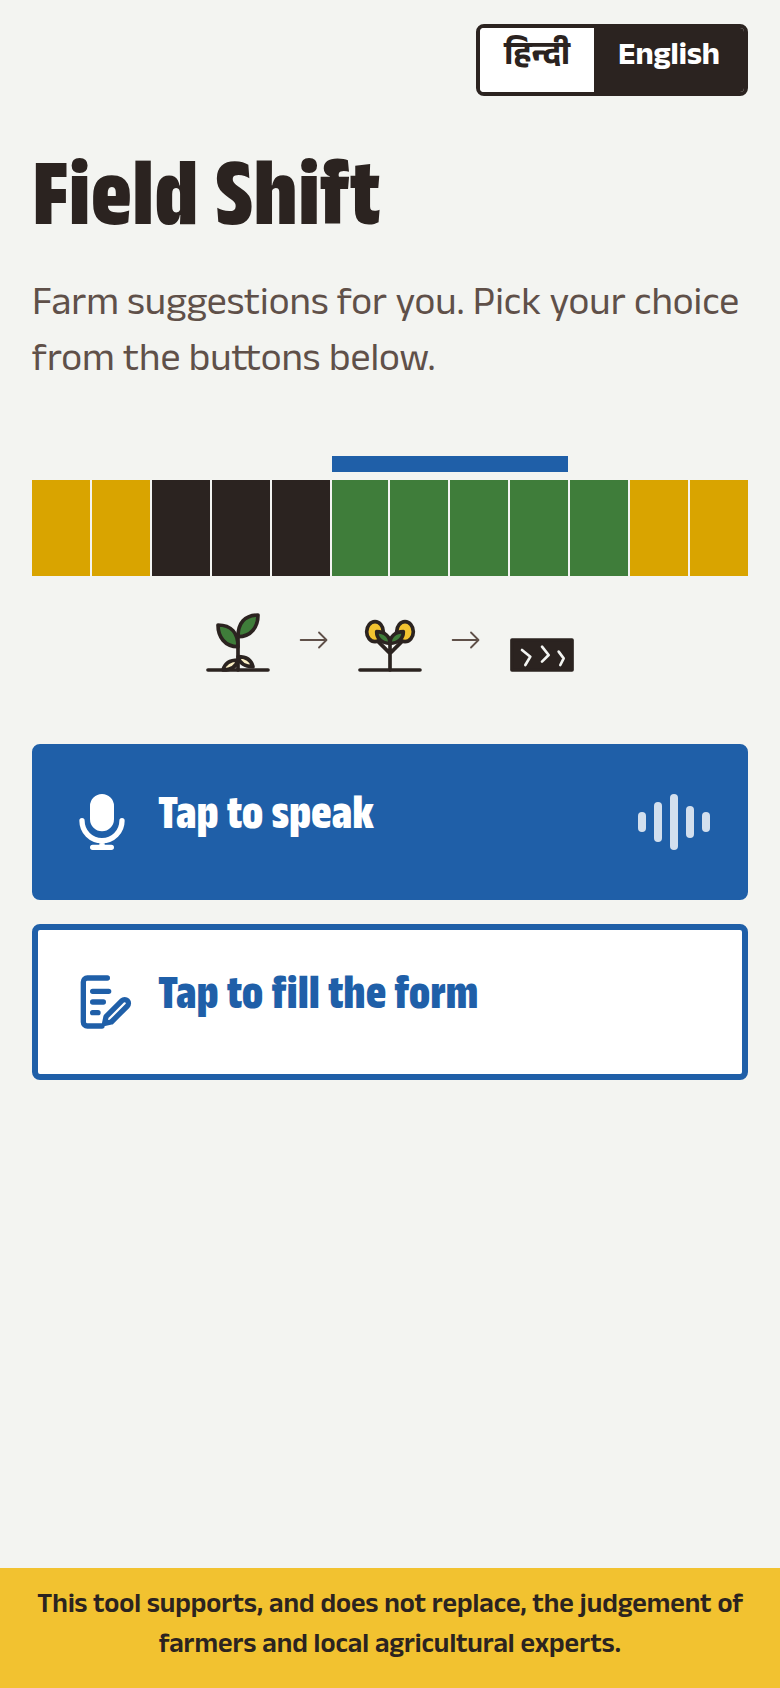
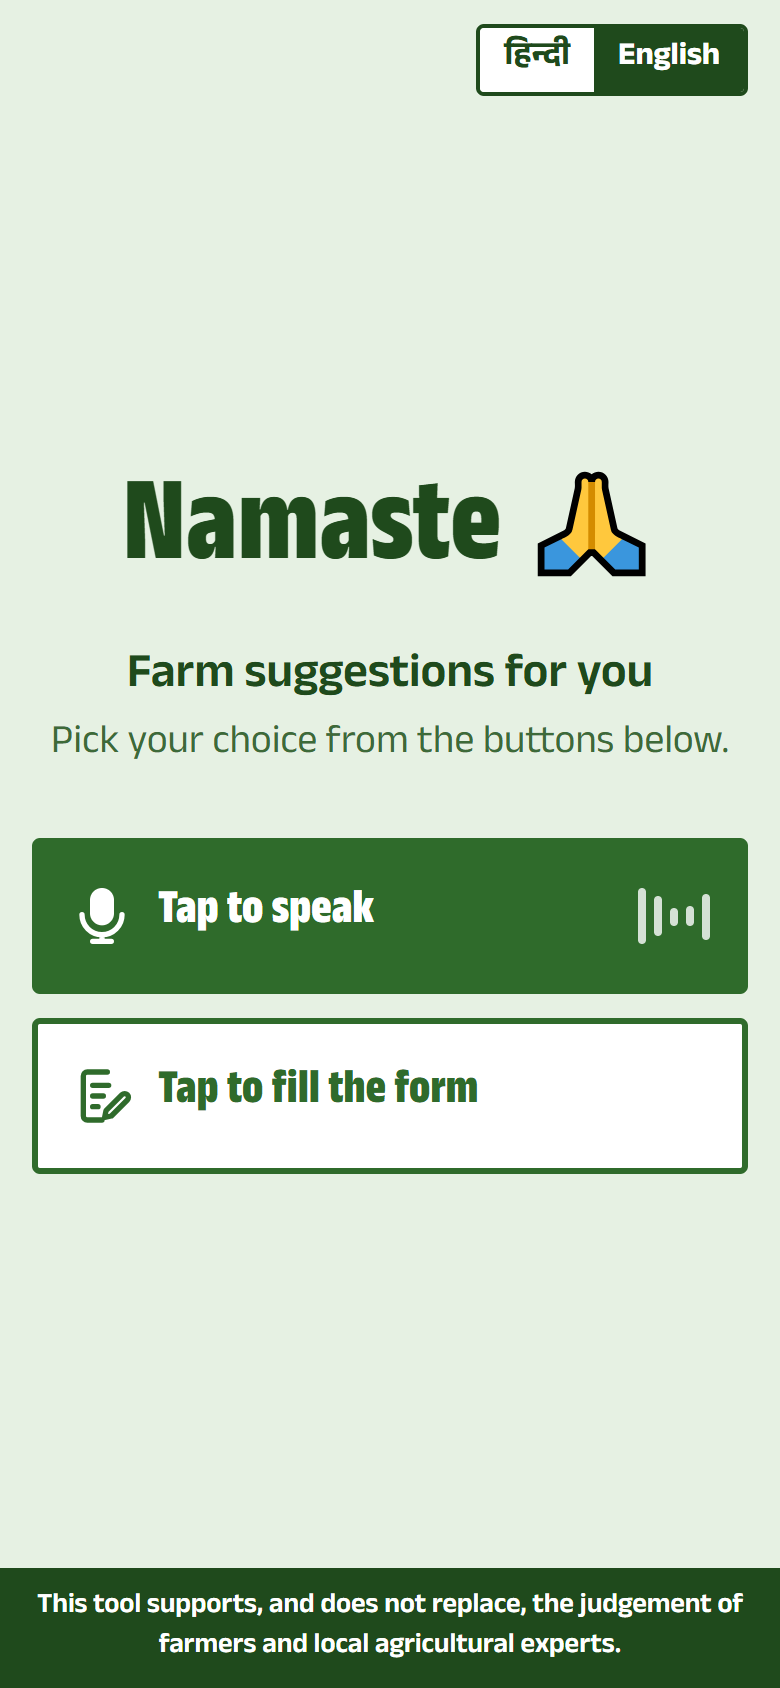
App renamed to Field Aid (title, installed name, script); README screenshots retaken with the green start screen; screenshot scripts use the new button labels

diff --git a/web/app/call-script.ts b/web/app/call-script.ts
@@ -22,7 +22,7 @@ export type Step = {
 export type Answers = Partial<Record<Step["id"], string>>;
 
 const SCRIPT_HI = {
-  title: "फ़ील्ड शिफ़्ट",
+  title: "फ़ील्ड एड",
   greeting_title: "नमस्ते",
   taglineLead: "आपके लिए खेती के सुझाव",
   taglineRest: "नीचे दिए गए बटनों में से अपनी पसंद चुनिए।", // one line where it fits, wraps on narrow phones
@@ -48,7 +48,7 @@ const SCRIPT_HI = {
 };
 
 const SCRIPT_EN: typeof SCRIPT_HI = {
-  title: "Field Shift",
+  title: "Field Aid",
   greeting_title: "Namaste",
   taglineLead: "Farm suggestions for you",
   taglineRest: "Pick your choice from the buttons below.", // one line where it fits, wraps on narrow phones

diff --git a/scripts/readme_screenshots.py b/scripts/readme_screenshots.py
@@ -107,7 +107,7 @@ def main():
         page.get_by_role("button", name="हिन्दी").click()
         page.wait_for_timeout(500)
 
-        page.get_by_role("button", name="बोलने के लिए छुइए").click()  # start the call
+        page.get_by_role("button", name="बोलने के लिए दबाइए").click()  # start the call
         answer_all(page)
         page.get_by_text("किसी तरीके को छुइए").wait_for(timeout=180_000)  # the engine may need to wake
         page.wait_for_timeout(1500)
@@ -150,7 +150,7 @@ def main():
         ctx, page = new_page(browser, geolocation=BANGALORE)
         page.goto(args.url, wait_until="networkidle")
         page.wait_for_timeout(1000)
-        page.get_by_role("button", name="बोलने के लिए छुइए").click()
+        page.get_by_role("button", name="बोलने के लिए दबाइए").click()
         t = tile(page, "अकोला")
         t.wait_for(timeout=TILE_WAIT_MS)
         page.wait_for_timeout(800)

diff --git a/scripts/screenshots.py b/scripts/screenshots.py
@@ -50,7 +50,7 @@ def main():
         page.wait_for_timeout(1500)
         shot(page, "01-start", full=False)
 
-        page.get_by_role("button", name="बोलने के लिए छुइए").click()  # one tap starts the call
+        page.get_by_role("button", name="बोलने के लिए दबाइए").click()  # one tap starts the call
         for i, label in enumerate(ANSWERS):
             t = tile(page, label)
             t.wait_for(timeout=TILE_WAIT_MS)
@@ -83,7 +83,7 @@ def main():
         page = ctx.new_page()
         page.goto(URL, wait_until="networkidle")
         page.wait_for_timeout(1000)
-        page.get_by_role("button", name="फ़ॉर्म भरने के लिए छुइए").click()
+        page.get_by_role("button", name="फ़ॉर्म भरने के लिए दबाइए").click()
         page.wait_for_timeout(1000)
         shot(page, "14-form")
         browser.close()

diff --git a/docs/discussions.md b/docs/discussions.md
@@ -161,3 +161,7 @@ Still open: the second-priority question reads "If not, say no" / "नहीं 
 ## Sunn hemp and horse gram: scored, not shown, and now said so (Amrita, 15 Nov 2026, night)
 
 The engine scores sunn hemp and horse gram as S3 variants, but no screen shows them (the old form results page that listed them is gone). Decision: keep them hidden for the hackathon, because their data is too thin (unverified sowing windows, horse gram sown before soybean is harvested, no mandi prices, and variants skip the coverage rule; engine review problem 2), and say so openly. Added an explainer "दूसरी फ़सलें" / "Other crops" in `web/app/results-script.ts` (Kartik's file, for his review) and a line in the README's honest-status list. Proper fix later: apply the coverage rule to variants and fix the horse gram sowing window, then show them flagged as "too little data".
+
+## App name: Field Aid (Amrita, 15 Nov 2026, night)
+
+The app is now called **Field Aid** ("Field Shift" is the challenge's name). Changed in the page title, the installed-app name (`web/app/manifest.ts`) and the script titles (`call-script.ts`; Hindi "फ़ील्ड एड", machine-drafted). README, demo script and other docs still say Field Shift in places; the Vercel address (`field-shift-opal…`) stays.
